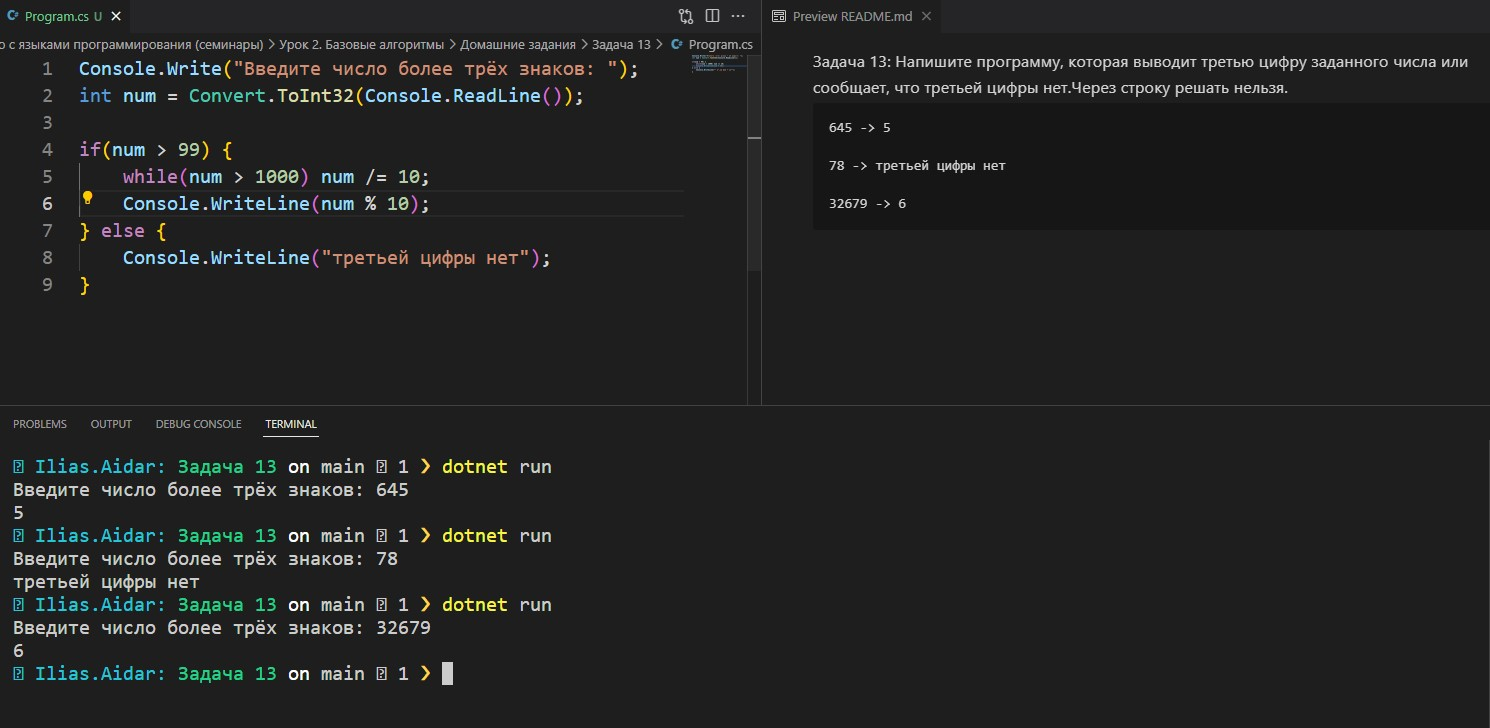
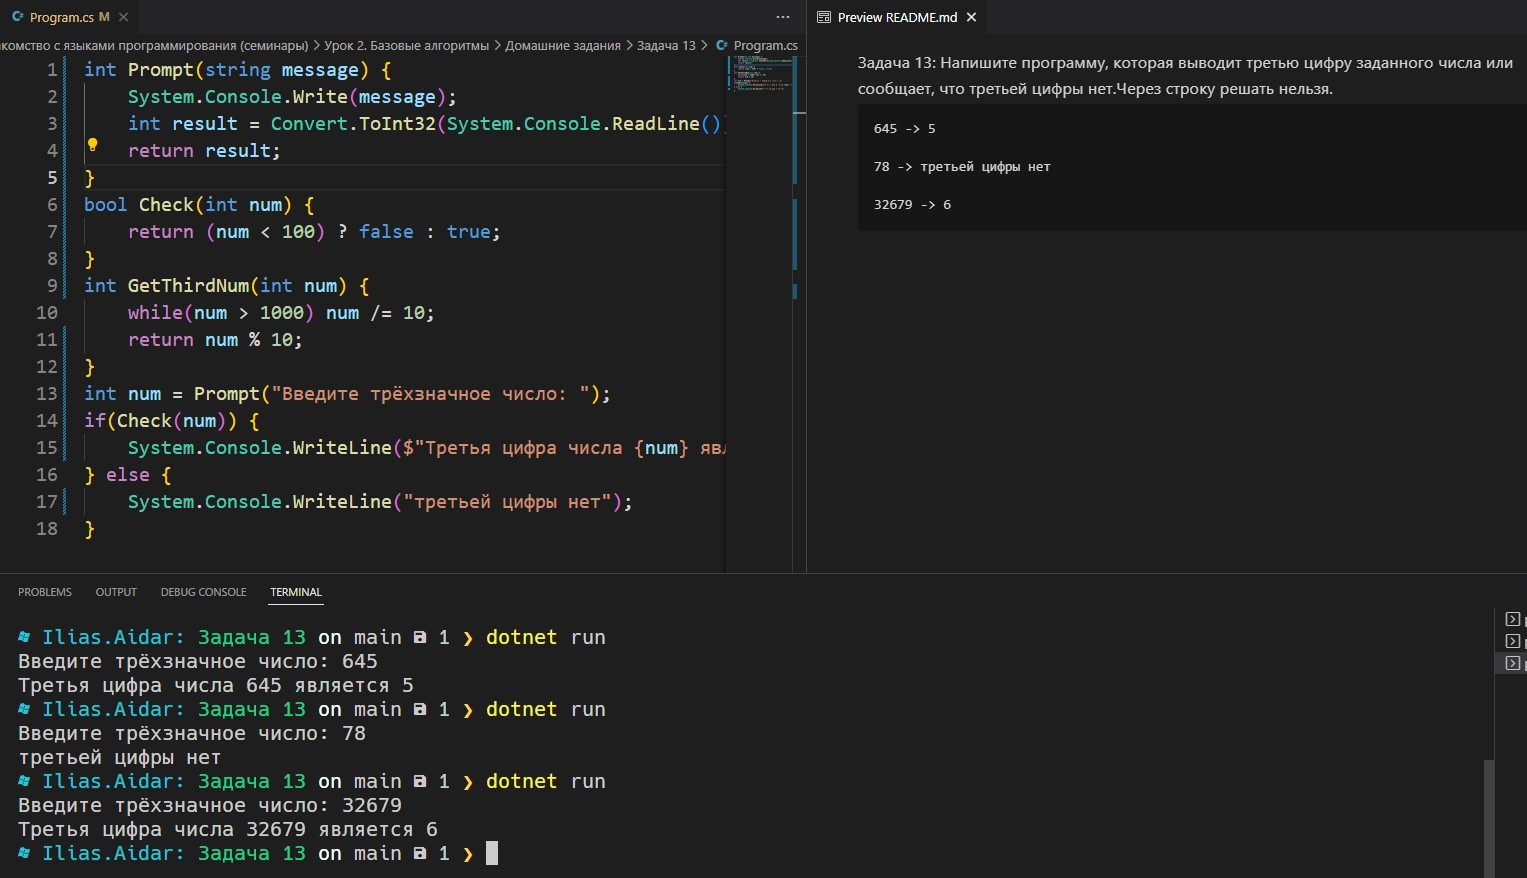
added task13

diff --git a/001 - 1 Четверть/09-Знакомство с языками программирования (семинары)/Урок 2. Базовые алгоритмы/Домашние задания/Задача 13/Program.cs b/001 - 1 Четверть/09-Знакомство с языками программирования (семинары)/Урок 2. Базовые алгоритмы/Домашние задания/Задача 13/Program.cs
@@ -1,9 +1,18 @@
-Console.Write("Введите число более трёх знаков: ");
-int num = Convert.ToInt32(Console.ReadLine());
-
-if(num > 99) {
+int Prompt(string message) {
+    System.Console.Write(message);
+    int result = Convert.ToInt32(System.Console.ReadLine());
+    return result;
+}
+bool Check(int num) {
+    return (num < 100) ? false : true;
+}
+int GetThirdNum(int num) {
     while(num > 1000) num /= 10;
-    Console.WriteLine(num % 10);
+    return num % 10;
+}
+int num = Prompt("Введите трёхзначное число: ");
+if(Check(num)) {
+    System.Console.WriteLine($"Третья цифра числа {num} является {GetThirdNum(num)}");
 } else {
-    Console.WriteLine("третьей цифры нет");
+    System.Console.WriteLine("третьей цифры нет");
 }
